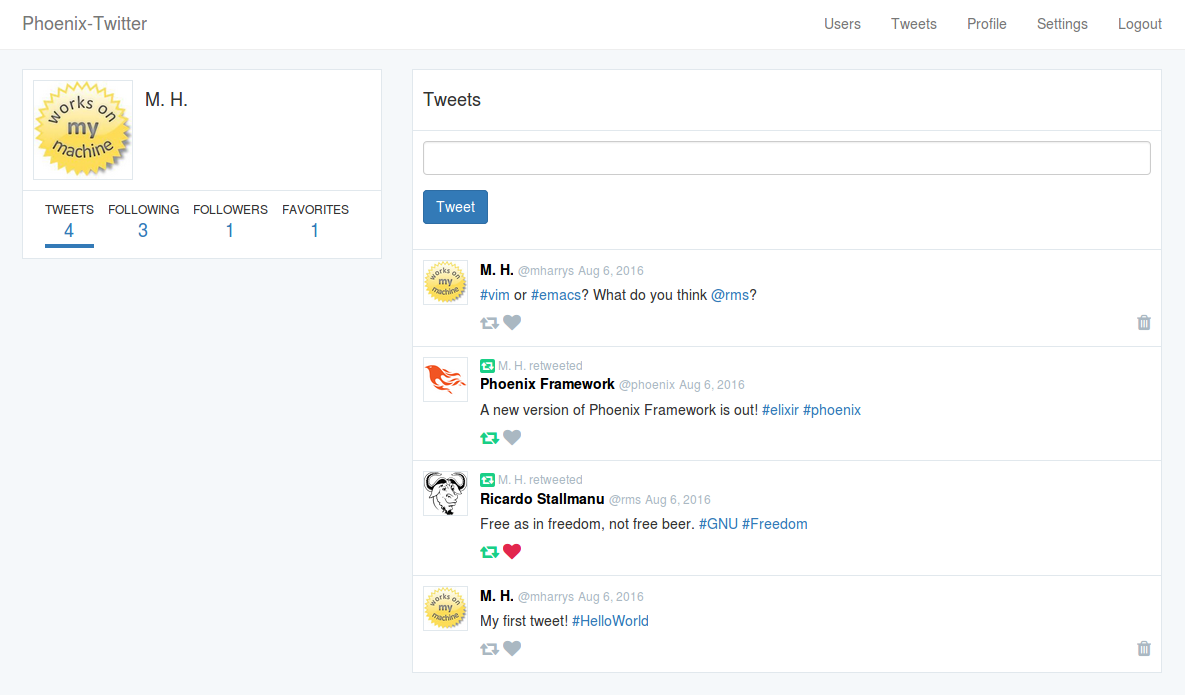
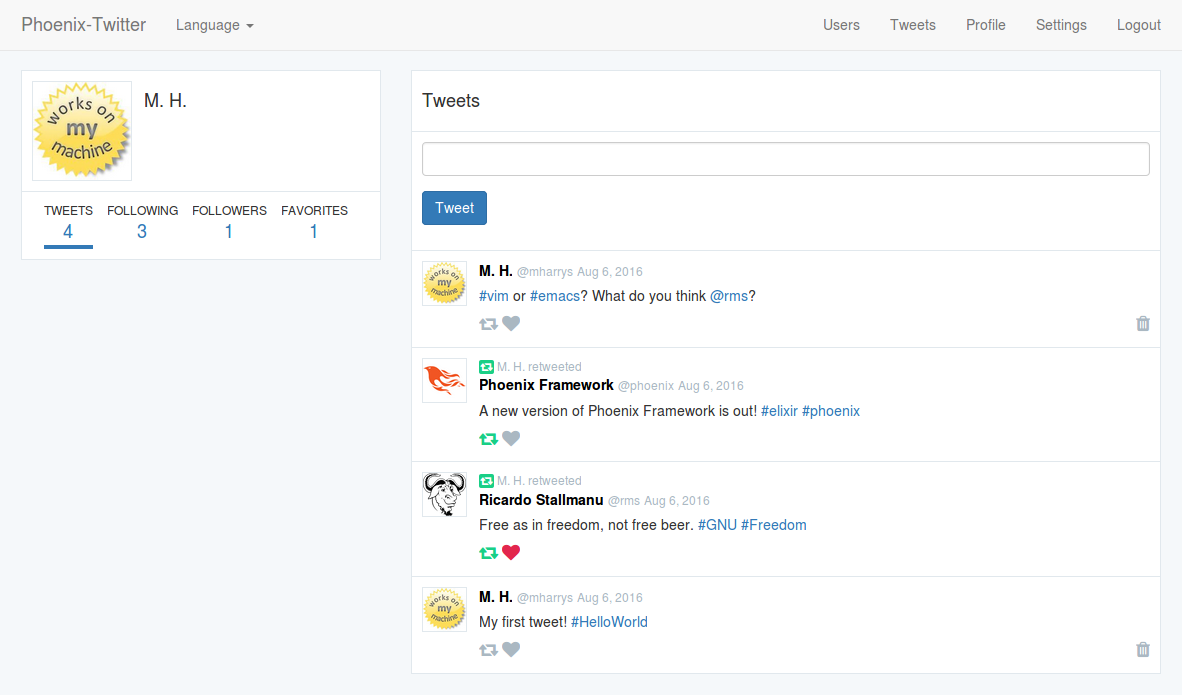
add new scrot

diff --git a/web/static/css/app.scss b/web/static/css/app.scss
@@ -1,5 +1,3 @@
-$navbar-default-bg: #fff;
-
 @import "bootstrap";
 
 $background-color: #f5f8fa;
